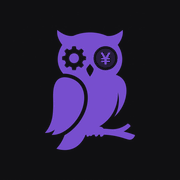
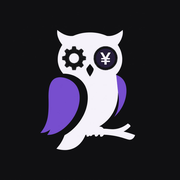
フクリ：アイコンを白いフクロウ＋紫の羽に、左羽を体から離す
Claude-Session: https://claude.ai/code/session_018AqJEPVdUNX8yo8mMiWdyr

Changed region(s): [[0.2222, 0.1667, 0.75, 0.8333]]

diff --git a/fukuri/index.html b/fukuri/index.html
@@ -11,8 +11,8 @@
 <meta name="apple-mobile-web-app-status-bar-style" content="black">
 <meta name="apple-mobile-web-app-title" content="フクリ">
 <meta name="theme-color" content="#070908">
-<link rel="apple-touch-icon" href="apple-touch-icon.png?v=6">
-<link rel="icon" href="icon-192.png?v=6">
+<link rel="apple-touch-icon" href="apple-touch-icon.png?v=7">
+<link rel="icon" href="icon-192.png?v=7">
 <link rel="manifest" href="manifest.webmanifest?v=2">
 <style>
 :root{
@@ -356,7 +356,7 @@ body{transition:none}
   <button data-p="set"><svg viewBox="0 0 24 24" fill="none" stroke="currentColor" stroke-width="2" stroke-linecap="round" stroke-linejoin="round" aria-hidden="true"><circle cx="12" cy="12" r="3"/><path d="M19.4 15a1.7 1.7 0 0 0 .3 1.8l.1.1a2 2 0 1 1-2.8 2.8l-.1-.1a1.7 1.7 0 0 0-1.8-.3 1.7 1.7 0 0 0-1 1.5V21a2 2 0 1 1-4 0v-.1a1.7 1.7 0 0 0-1.1-1.5 1.7 1.7 0 0 0-1.8.3l-.1.1a2 2 0 1 1-2.8-2.8l.1-.1a1.7 1.7 0 0 0 .3-1.8 1.7 1.7 0 0 0-1.5-1H3a2 2 0 1 1 0-4h.1a1.7 1.7 0 0 0 1.5-1.1 1.7 1.7 0 0 0-.3-1.8l-.1-.1a2 2 0 1 1 2.8-2.8l.1.1a1.7 1.7 0 0 0 1.8.3H9a1.7 1.7 0 0 0 1-1.5V3a2 2 0 1 1 4 0v.1a1.7 1.7 0 0 0 1 1.5 1.7 1.7 0 0 0 1.8-.3l.1-.1a2 2 0 1 1 2.8 2.8l-.1.1a1.7 1.7 0 0 0-.3 1.8V9a1.7 1.7 0 0 0 1.5 1H21a2 2 0 1 1 0 4h-.1a1.7 1.7 0 0 0-1.5 1z"/></svg>'設定</button>
 </nav>
 <script>
-const VERSION='31';
+const VERSION='32';
 const CLIENT_ID='187861904258-0eilchk073j1hbginl1hncskf7jpp4ja.apps.googleusercontent.com';  // GoogleログインのクライアントID（公開してよい値）
 const VAPID='BFPiiQbgaxGzyfVZaA--hO4tmo7iamPgNVKypX8MHbwrcy3IF3d3544WBQX1cVLJmfDnfnRuZaPrTR9KNwHJlyc';
 const API='https://script.google.com/macros/s/AKfycbwTnqvwT5kAsd0AKqWztPr5yxcw4FKEM4ISuuMwrtFsUGmYTjdeAzXfhypG1TIj_B7d/exec';
